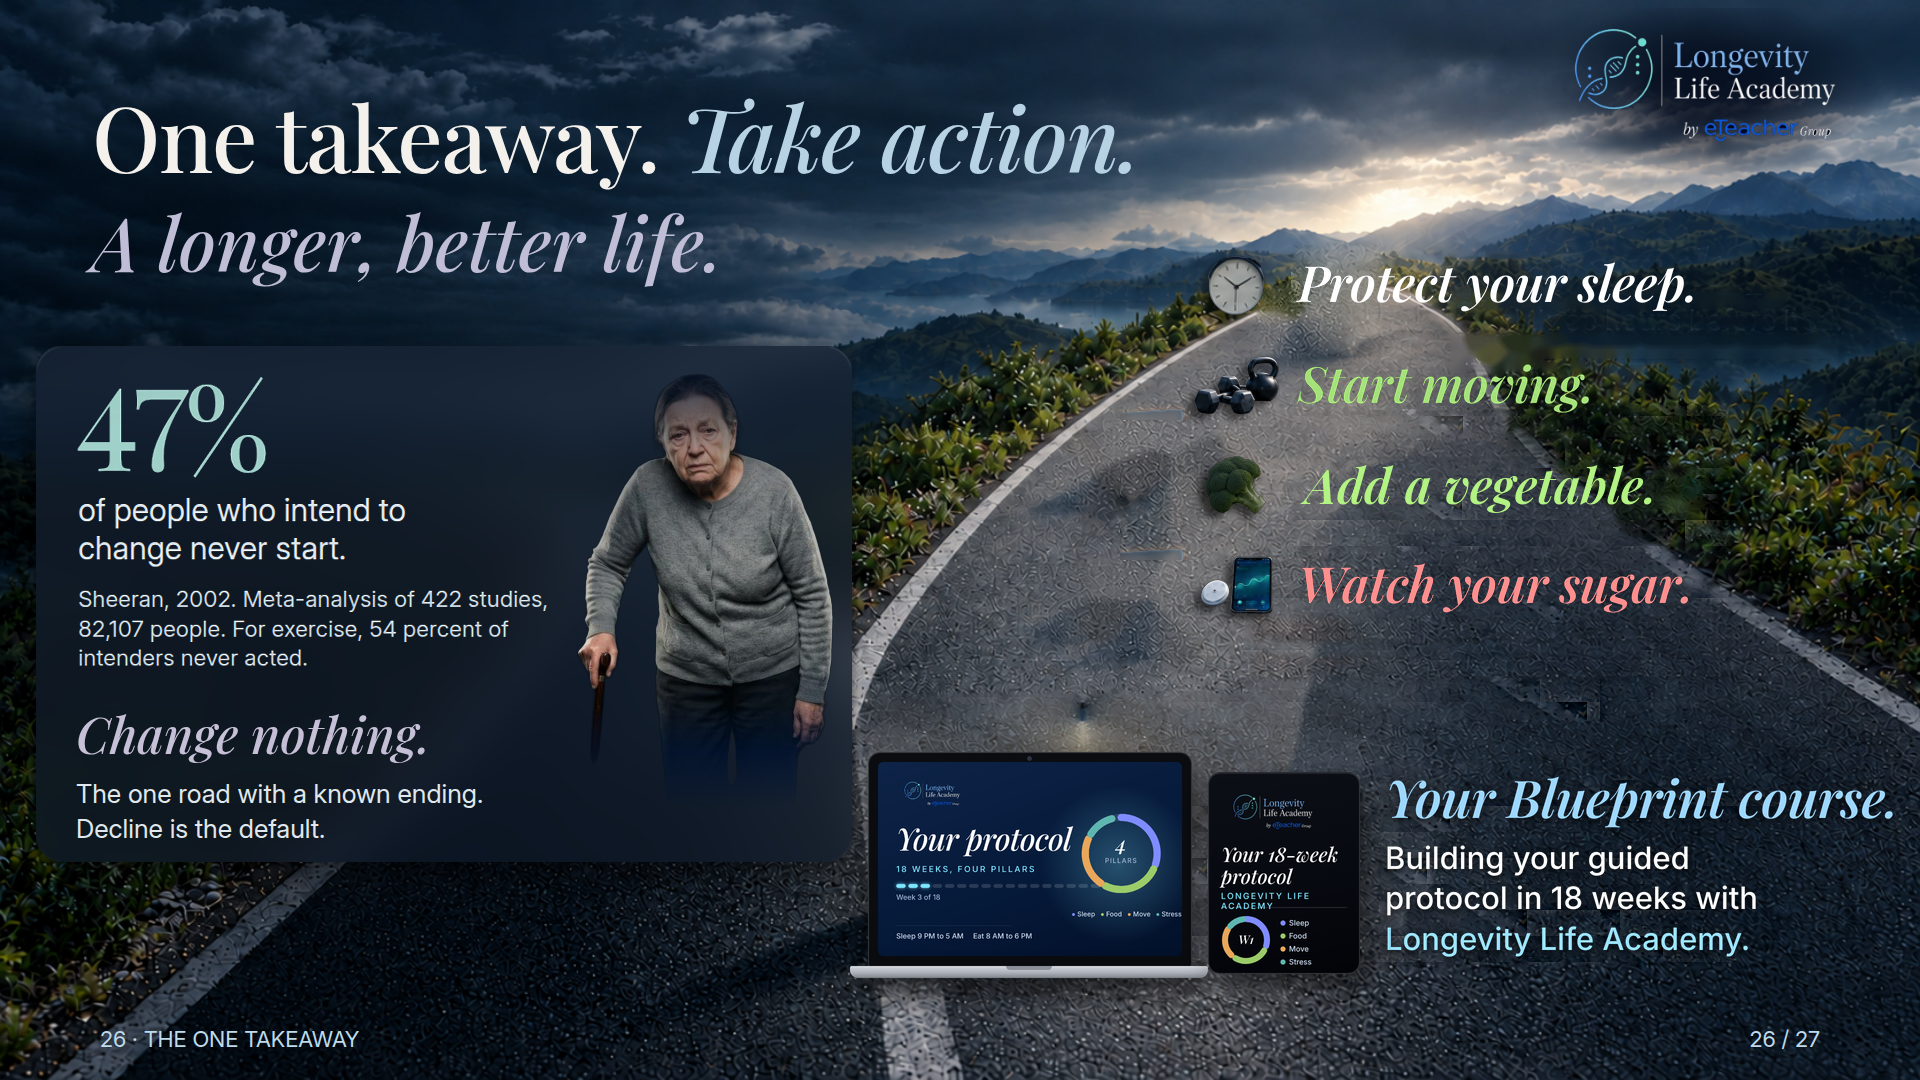
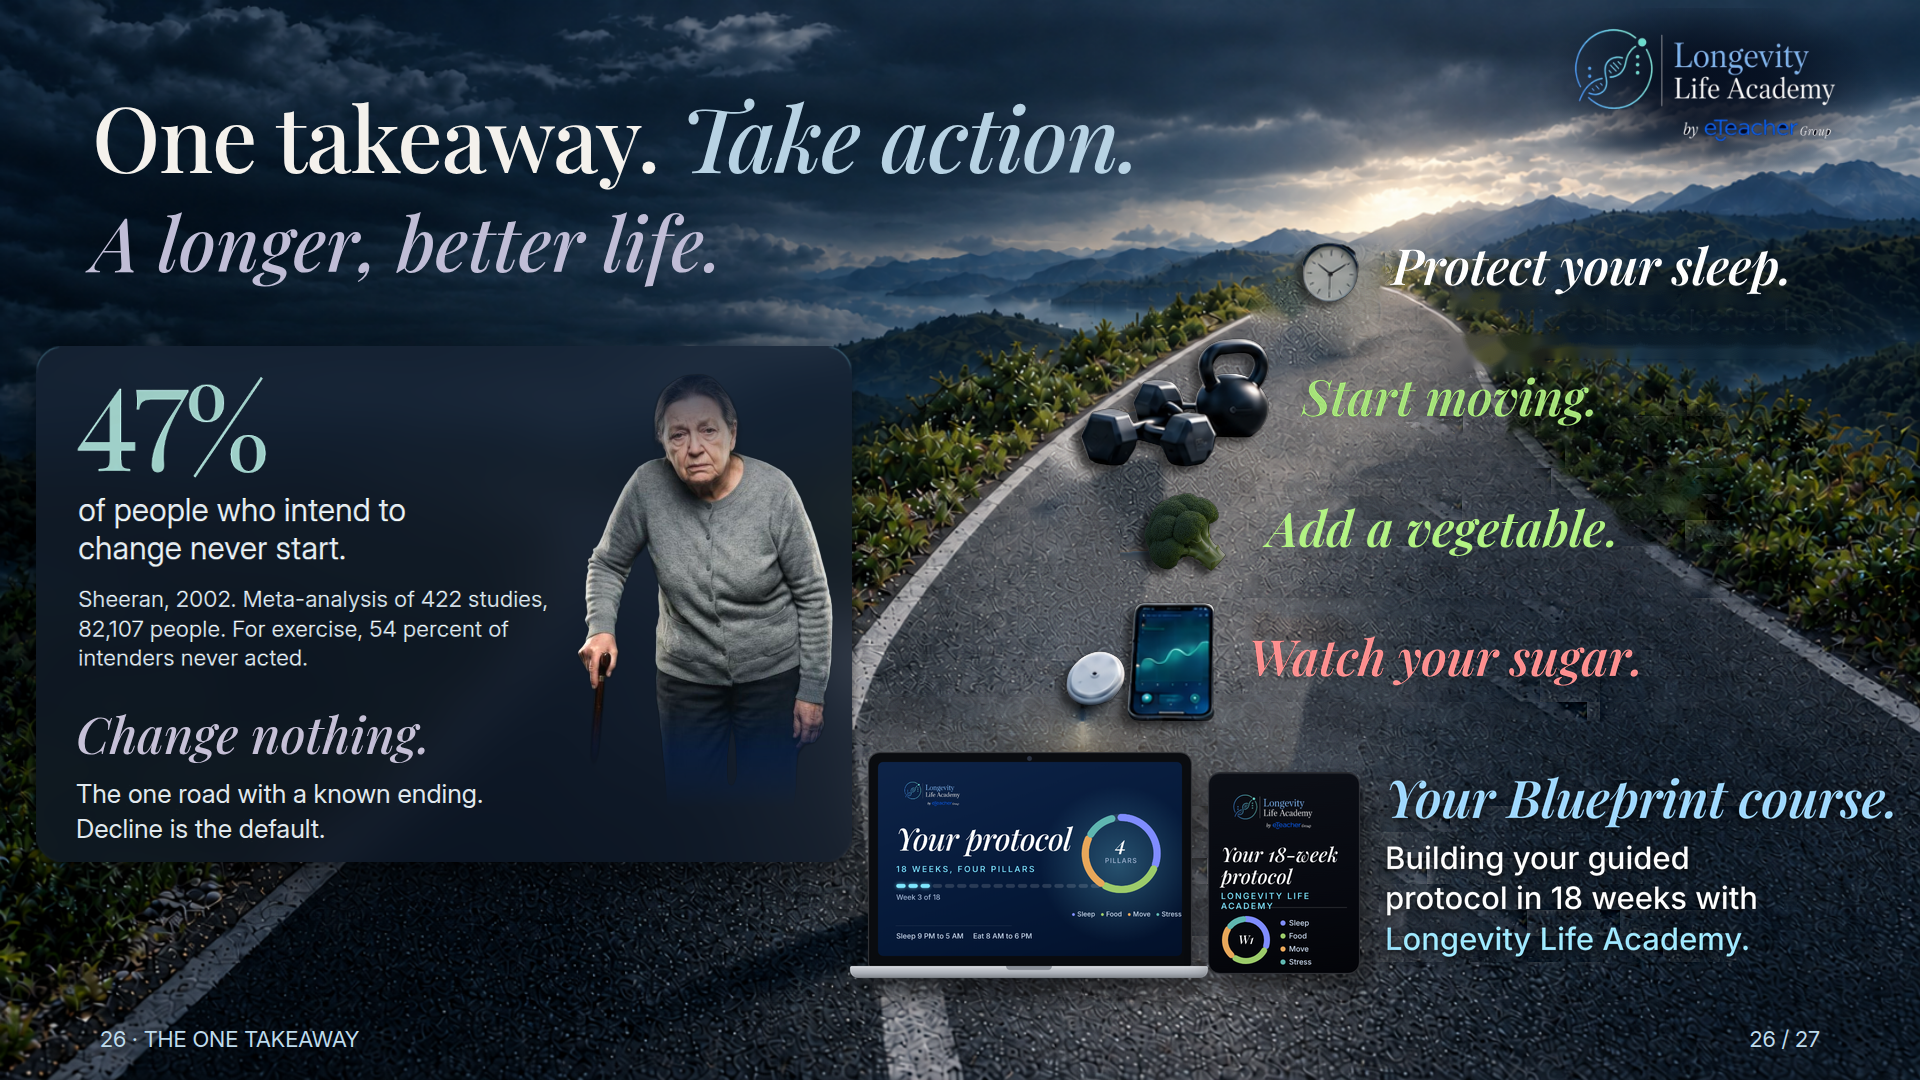
fork-lab: curved right column restored, veg third, no sub-text; card rim light, brighter woman

Changed region(s): [[0.5312, 0.2139, 0.9375, 0.6722], [0.2812, 0.3667, 0.4375, 0.6111], [0.4062, 0.6417, 0.4375, 0.6722]]

diff --git a/slide-canvas/fork-lab/index.html b/slide-canvas/fork-lab/index.html
@@ -1,4 +1,4 @@
 <!doctype html><html><head><meta charset="utf-8"><title>Fork lab – slide 26</title>
 <style>body{margin:0;background:#0b1220;color:#dfe7f3;font:15px/1.4 Inter,system-ui,sans-serif}h2{font-weight:500;margin:28px 24px 10px}img{display:block;width:calc(100% - 48px);max-width:1920px;margin:0 24px 24px;border-radius:6px}</style></head>
 <body><h2>Original</h2><img src="original-n25-fork.png?v=1" alt="Original">
-<h2>New</h2><img src="new-n25-fork.png?v=3" alt="New"></body></html>
+<h2>New</h2><img src="new-n25-fork.png?v=4" alt="New"></body></html>

diff --git a/slide-canvas/fork-lab/src/b2.py b/slide-canvas/fork-lab/src/b2.py
@@ -31,7 +31,7 @@ om=np.zeros((H,W),np.uint8);L={}
 for n,(ox,oy) in cuts.items():
     c=np.array(Image.open('c_%s.png'%n)).astype(np.float32);L[n]=(c,ox,oy)
     al=(c[...,3]>8).astype(np.uint8)*255;h,w=al.shape
-    m=dil(al,11);sh=np.zeros_like(m);sh[10:,:w-12]=m[:-10,12:];m=m|dil(sh,9)
+    m=dil(al,15);sh=np.zeros_like(m);sh[16:,:w-20]=m[:-16,20:];m=m|dil(sh,21)
     om[oy:oy+h,ox:ox+w]|=m
 fill=cv2.inpaint(np.clip(P,0,255).astype(np.uint8),om,9,cv2.INPAINT_TELEA).astype(np.float32)
 # real asphalt texture from clean patch
@@ -50,8 +50,7 @@ def matte(x0,y0,x1,y1,mask):
     al=np.clip((lum-bl)/np.maximum(tl-bl,25),0,1)*m
     col=np.clip((s-b*(1-al[...,None]))/np.maximum(al[...,None],0.08),0,255)
     return col,al
-TX=1300
-HD=[(1385,244,1800,302,265-249,TX-1394),(1300,365,1700,428,365-372,TX-1307),(1250,548,1700,608,565-556,TX-1257)]
+HD=[(1385,244,1800,302,248-249,0),(1300,365,1700,428,378-372,1304-1307),(1250,548,1700,608,638-556,1250-1257)]
 for x0,y0,x1,y1,dy,dx in HD:
     col,al=matte(x0,y0,x1,y1,tm);A=al[...,None]
     R[y0+dy:y1+dy,x0+dx:x1+dx]=R[y0+dy:y1+dy,x0+dx:x1+dx]*(1-A)+col*A
@@ -66,9 +65,9 @@ def obj(n,sc):
     c,ox,oy=L[n];h,w=c.shape[:2];c=cv2.resize(c,(int(round(w*sc)),int(round(h*sc))),interpolation=cv2.INTER_AREA)
     a=(c[...,3]>20);ys,xs=np.where(a);return c,xs.min(),ys.min(),xs.max(),ys.max()
 GAP=36
-rows=[('clock',1.0,285),('dumb',58/129,385),('cgm',58/120,585)]
-for n,sc,cy in rows:
-    c,a0,b0,a1,b1=obj(n,sc);x=int(1236-(a0+a1)/2);y=int(cy-(b0+b1)/2);put(R,c,x,y);print(n,x+a0,y+b0,x+a1,y+b1)
+rows=[('clock',1.0,272,1394),('dumb',1.0,402,1304),('cgm',1.0,662,1250)]
+for n,sc,cy,tl in rows:
+    c,a0,b0,a1,b1=obj(n,sc);x=int(tl-GAP-a1);y=int(cy-(b0+b1)/2);put(R,c,x,y);print(n,x+a0,y+b0,x+a1,y+b1)
 # ---- veg headline
 pf=F+'PlayfairDisplay-Italic.ttf'
 f=ImageFont.truetype(pf,49)
@@ -77,7 +76,7 @@ except Exception as e:print('var',e)
 bb=f.getbbox('Watch your sugar.');print('wys bbox',bb)
 # green color from Start moving headline
 s=O[370:412,1305:1600];g=s[((s[...,1]-s[...,2])>60)];gc=np.median(g[g[:,1]>np.percentile(g[:,1],80)],0);print('green',gc)
-VT=465; VX=1300
+VT=508; VX=1262
 txt=Image.new('L',(600,140),0);d=ImageDraw.Draw(txt)
 # position so glyph top aligns like sugar headline: sugar glyph top 555 for left 1262
 d.text((10-bb[0]+ (1262-1257) ,20-bb[1]),'Add a vegetable.',font=f,fill=255)
@@ -87,14 +86,14 @@ R[y0:y0+140,x0:x0+600]=R[y0:y0+140,x0:x0+600]*(1-A)+gc*A
 vb=np.where(al>0.3);print('veg',x0+vb[1].min(),y0+vb[0].min(),x0+vb[1].max(),y0+vb[0].max())
 # ---- broccoli
 bc=np.array(Image.open('c_broc.png').convert('RGBA')).astype(np.float32)
-bc=bc[225:731,249:785];bc[...,3]=np.clip((bc[...,3]-60)/170,0,1)*255;th=58;sc=th/bc.shape[0]
+bc=bc[225:731,249:785];bc[...,3]=np.clip((bc[...,3]-60)/170,0,1)*255;th=78;sc=th/bc.shape[0]
 bc=cv2.resize(bc,(int(bc.shape[1]*sc),th),interpolation=cv2.INTER_AREA)
 bc[...,:3]=bc[...,:3]*0.62;g=bc[...,:3].mean(2,keepdims=True);bc[...,:3]=g+(bc[...,:3]-g)*0.8
 bc[...,2]*=1.04  # (RGB order here: slight cool)  
 bc[...,0]*=0.97
 bc=np.pad(bc,((20,20),(20,20),(0,0)))
 vcy=(VT+VT+48)/2
-bx=int(1236-bc.shape[1]/2);by=int(485-bc.shape[0]/2)
+bx=int(VX-GAP-bc.shape[1]+20);by=int(532-bc.shape[0]/2)
 put(R,bc,bx,by,sh_op=0.6);print('broc',bx,by,bx+bc.shape[1],by+th)
 np.save('R_right.npy',R)
 np.save('plate.npy',plate);np.save('tm.npy',tm)

diff --git a/slide-canvas/fork-lab/src/b3.py b/slide-canvas/fork-lab/src/b3.py
@@ -35,7 +35,8 @@ R*=(1-0.55*sh[...,None])
 # bevel: top highlight edge, bottom darker edge
 edge=mk-cv2.erode(mk,np.ones((3,3),np.uint8))
 top=np.clip(1-yy/(hh*0.6),0,1)
-glass=glass+ (edge*top*34)[...,None]+ (edge*(1-top)*8)[...,None]
+rim=np.array([200,190,90],np.float32)*(edge*top*0.32)[...,None]
+glass=glass+rim+ (edge*top*14)[...,None]+ (edge*(1-top)*8)[...,None]
 inner=cv2.GaussianBlur(mk,(0,0),10);glass*= (0.92+0.08*inner)[...,None]
 roi=R[CY0:CY1,CX0:CX1];A=mk[...,None]
 R[CY0:CY1,CX0:CX1]=roi*(1-A)+glass*A
@@ -61,6 +62,7 @@ cm=mk[WY-CY0:WY-CY0+wm.shape[0],WX-CX0:WX-CX0+wm.shape[1]]
 fade=np.clip((wm.shape[0]-np.arange(wm.shape[0]))/60,0,1)[:,None]
 wm[...,3]*=cm*fade
 T=np.zeros((H,W),np.float32);T[382:382+int(290*SC),TX:TX+int(472*SC)]=st[:,:,3].max() and 0
+wm[...,:3]=np.clip(wm[...,:3]*1.18+6,0,255)
 paste(R,wm,WX,WY)
 print('woman',WX,WY,wm.shape,'text right',TX+int((560-88)*SC))
 # ---- protect Blueprint region: original pixels
